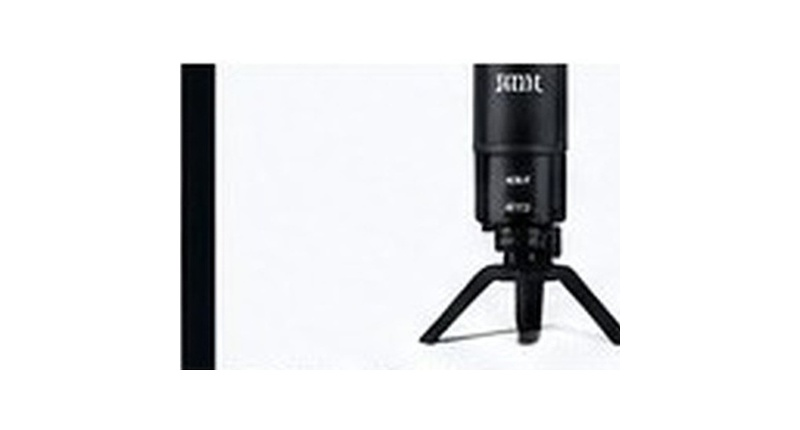
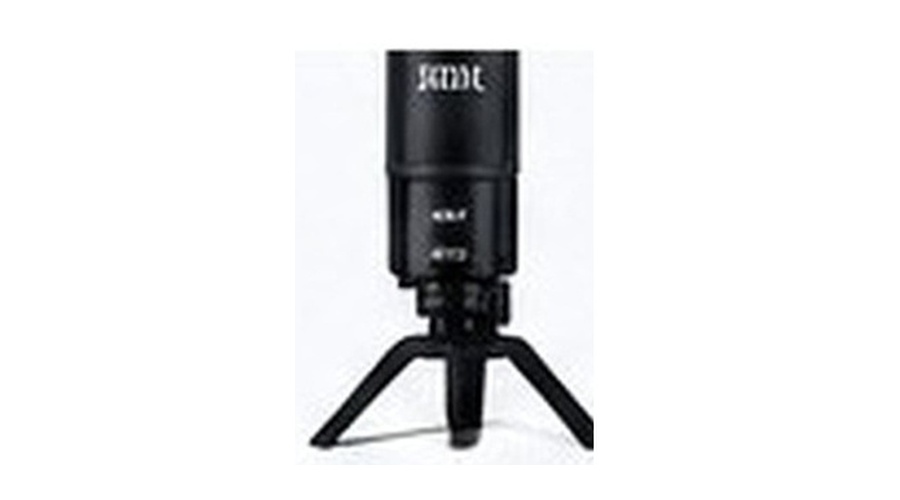
Add files via upload

Changed region(s): [[0.3438, 0.0907, 0.7812, 0.907], [0.2188, 0.1209, 0.2812, 0.8767]]

diff --git a/index.html b/index.html
@@ -33,6 +33,13 @@
   padding:12px 12px 14px!important;
 }
 </style>
+
+<style id="product-photo-final-fix">
+.product>img,.product img,.product-card>img,.product-card img{
+ width:100%!important;height:190px!important;object-fit:contain!important;
+ object-position:center!important;background:#fff!important;padding:0!important;margin:0!important;
+}
+</style>
 </head><body>
 <header><a class="brand" href="#"><span class="wave">▮▮▮</span> WORLD<span>VOICECM</span><small>HEAR THE WORLD. FEEL THE SOUND.</small></a>
 <nav><a href="#">Home</a><a href="#shop">Shop</a><a href="#categories">Categories</a><a href="#about">About</a><a href="#about">Contact</a></nav>
